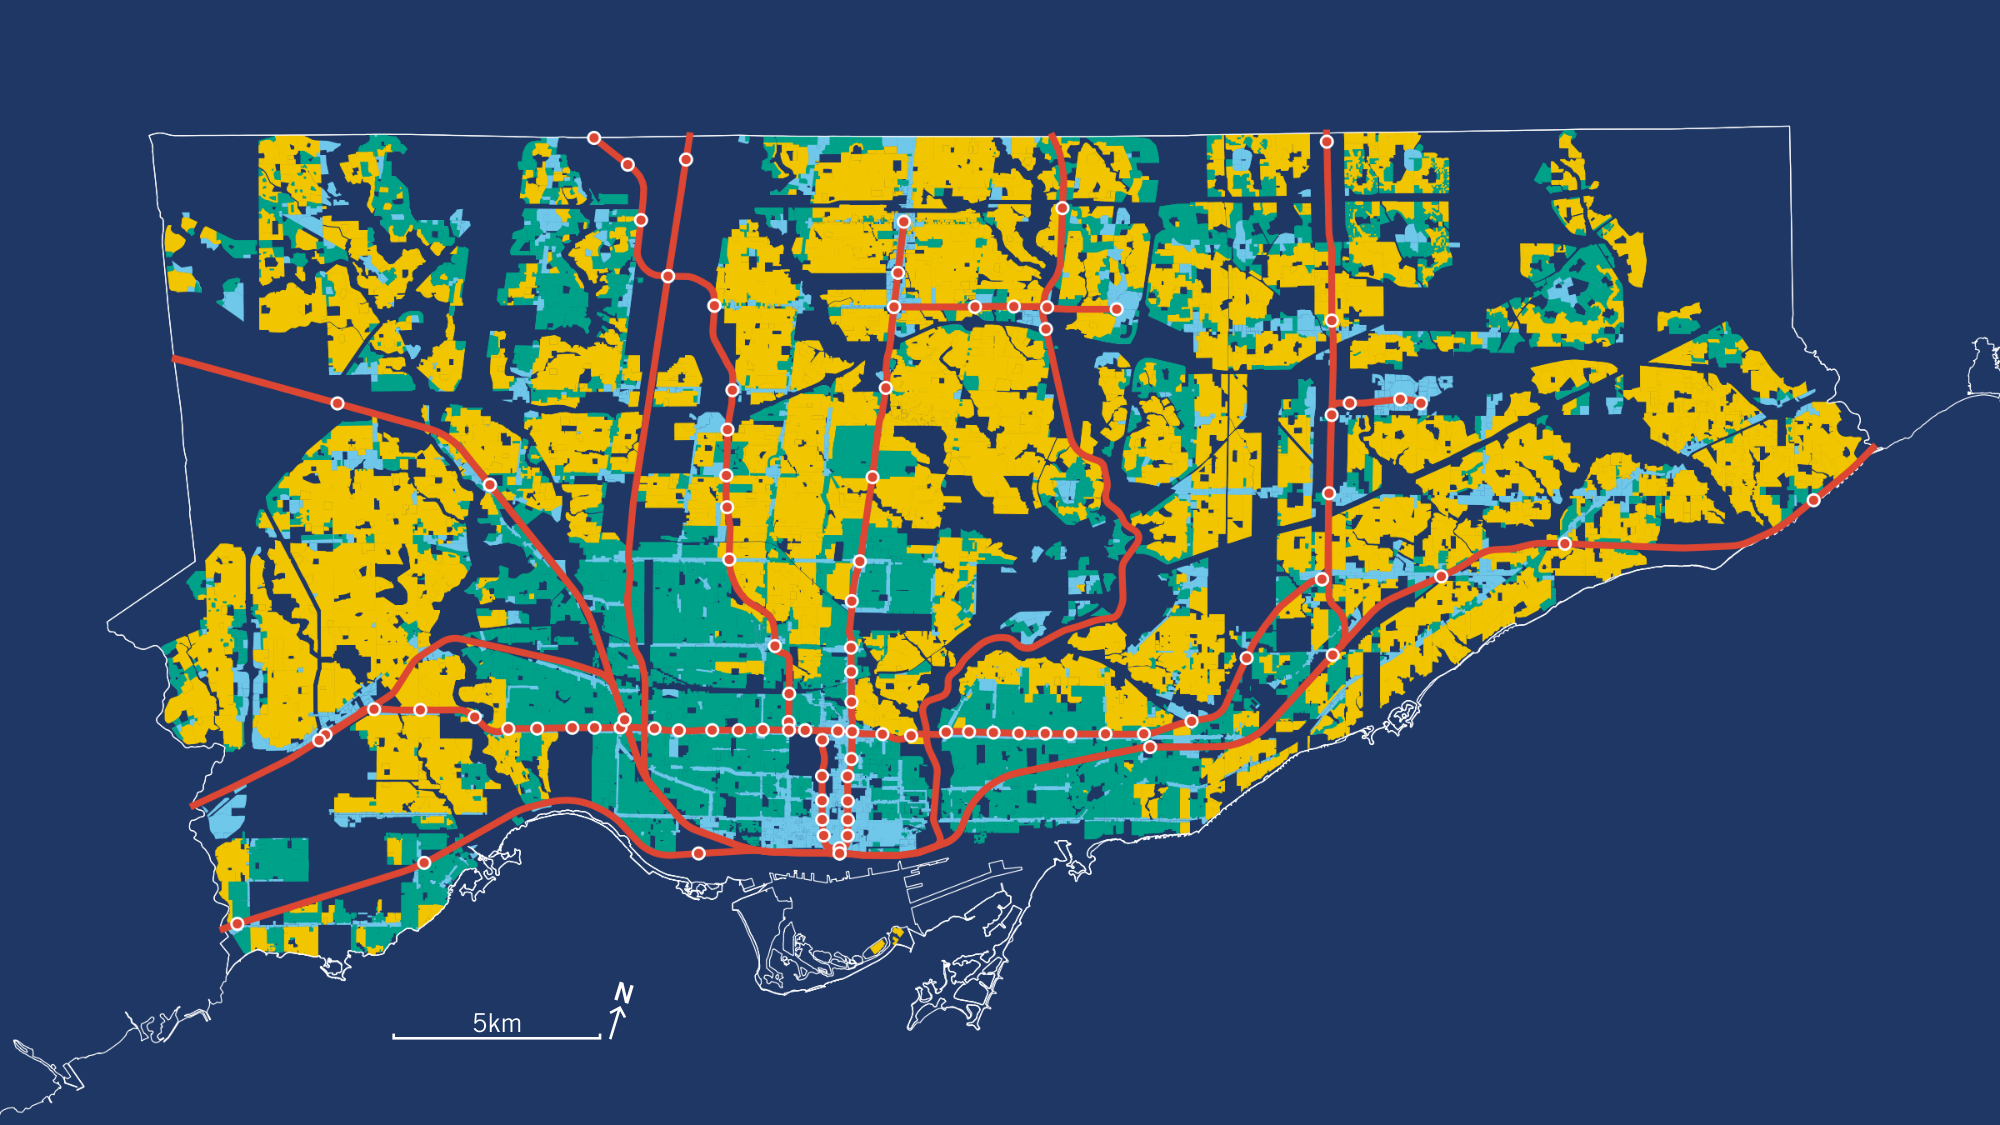
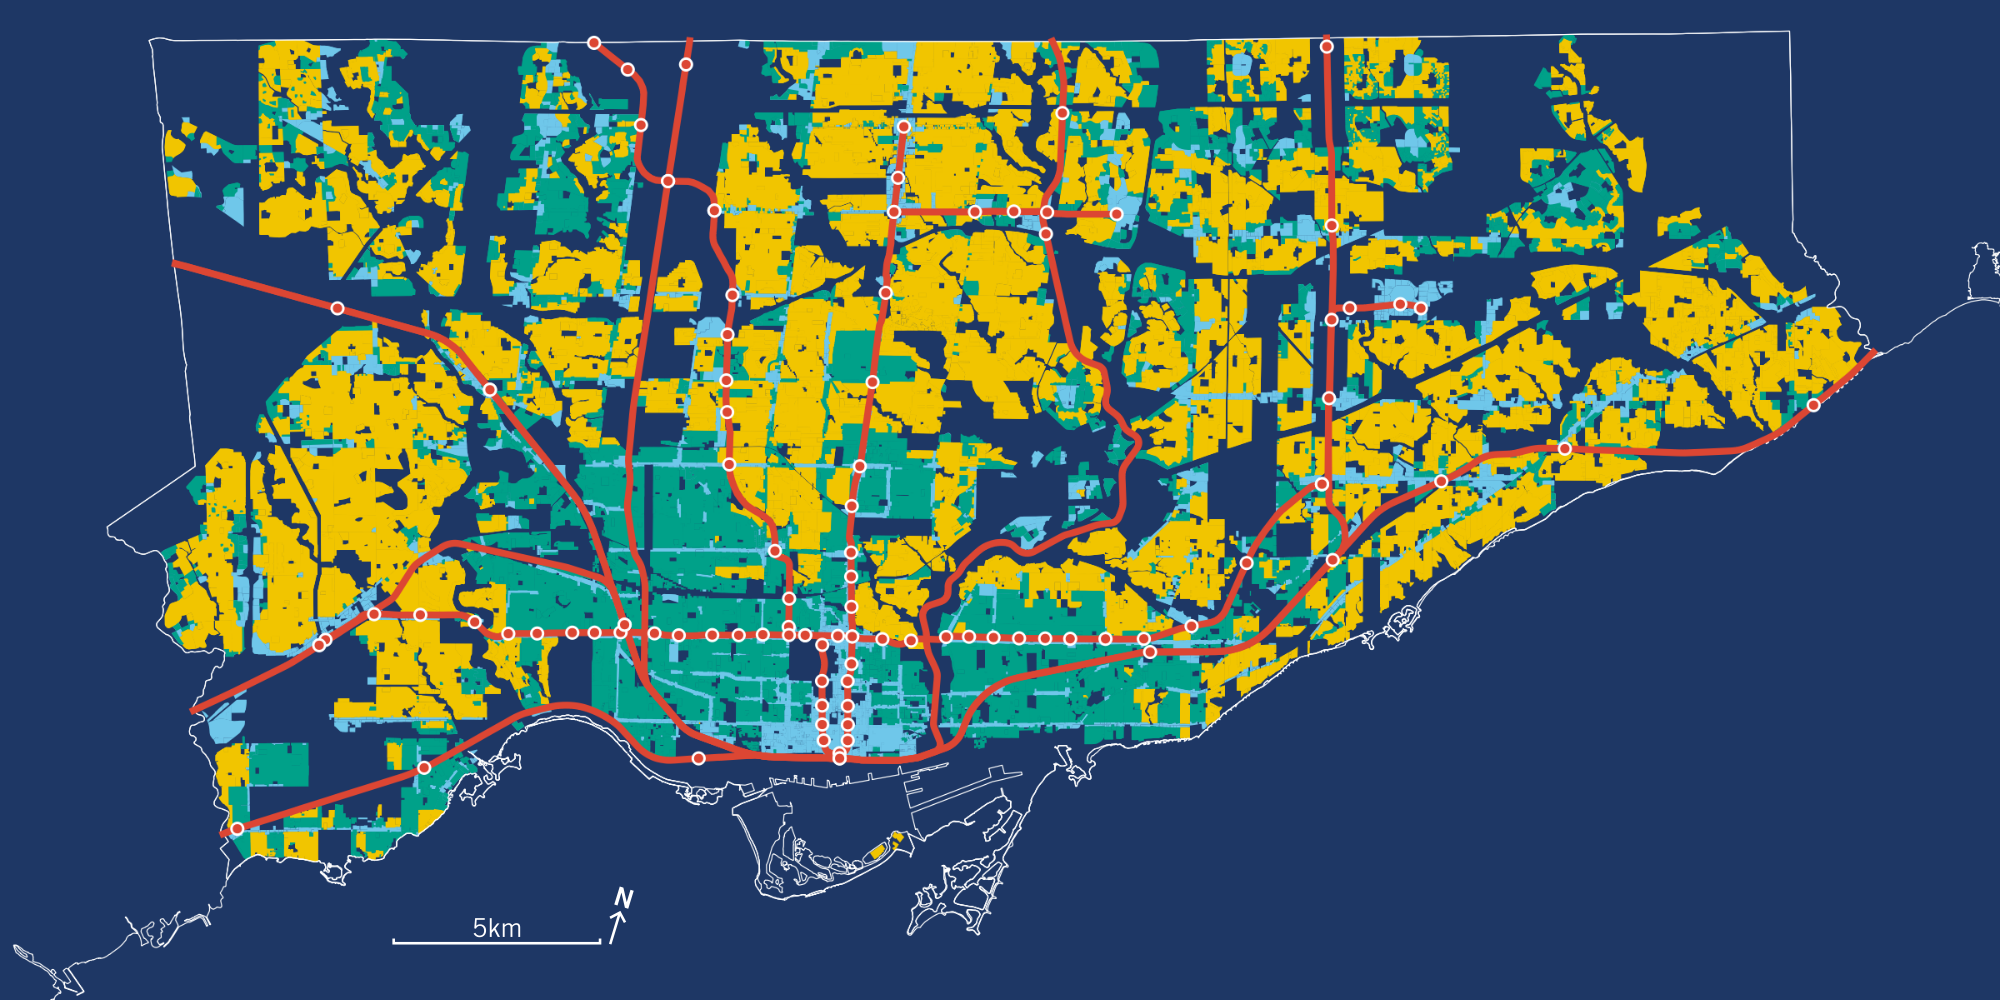
css tweaks, try to add svg legend

diff --git a/src/App.svelte b/src/App.svelte
@@ -3,6 +3,7 @@
 	import CalgaryWeb from './assets/calgary-web.png'
 	import TorontoWeb from './assets/toronto-web.png'
 	import TorontoPrint from './assets/toronto-print.png'
+	import TorontoLegend from './assets/toronto-legend.svg'
 </script>
 
 <main>
@@ -10,8 +11,8 @@
 	<Top/>
 
 	<div class="title">
-		<h1>the <span id="yellow">Yellowbelt</span></h1>
-		<h2>Mapping extreme exclusionary zoning in four Canadian cities</h2>
+		<h1><span id="yellow">The Yellowbelt</span></h1>
+		<h2>Mapping exclusionary zoning in four Canadian cities</h2>
 	</div>
 
 	<div class="text">
@@ -29,6 +30,11 @@
 
 	<div class="text">
 		<h2>TORONTO</h2>
+	</div>
+
+	<div class="legend">
+		<object type="image/svg+xml" data={TorontoLegend}>
+		</object>
 	</div>
 
 	<div class="map">
@@ -54,7 +60,7 @@
 
 	main {
 		text-align: center;
-		margin-top: 100px;
+		margin-top: 11	0px;
 		padding: 0px;
 		margin: 0px;
 		
@@ -64,6 +70,7 @@
 		margin: auto;
 		margin-top: 100px;
 		max-width: 800px;
+		padding-bottom: 40px;
 	}
 
 	h1 {
@@ -86,8 +93,26 @@
 		color: #F1C500;
 	}
 
+	.map {
+		position: relative;
+	}
+
+	.map img:hover {
+		border-right: dashed 1px white;
+		border-left: dashed 1px white;
+		opacity: 0.97;
+	}
+
 	.map img {
 		max-width: 1200px;
+		min-width: 350px;
+		width: 100%;
+	}
+
+	.legend	 {
+		z-index: 1;
+		margin: auto;
+		max-width: 450px;
 		min-width: 350px;
 		width: 100%;
 	}
